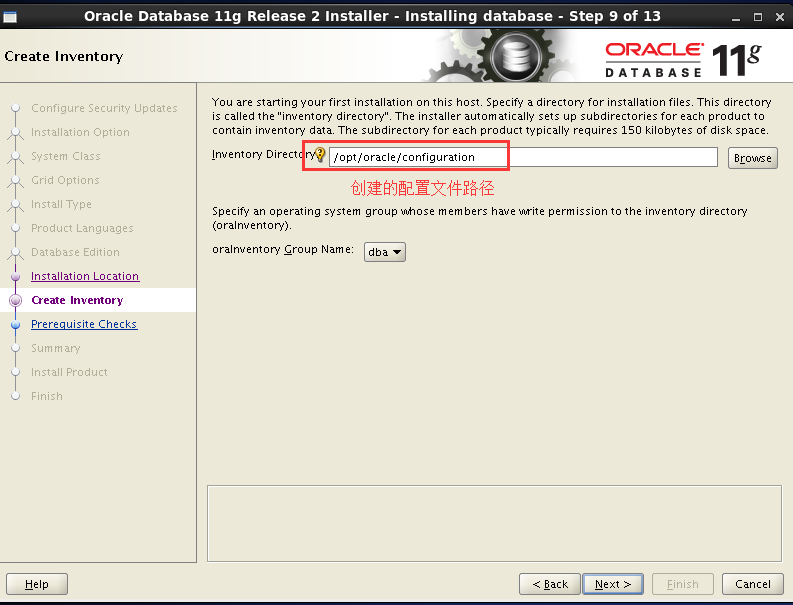
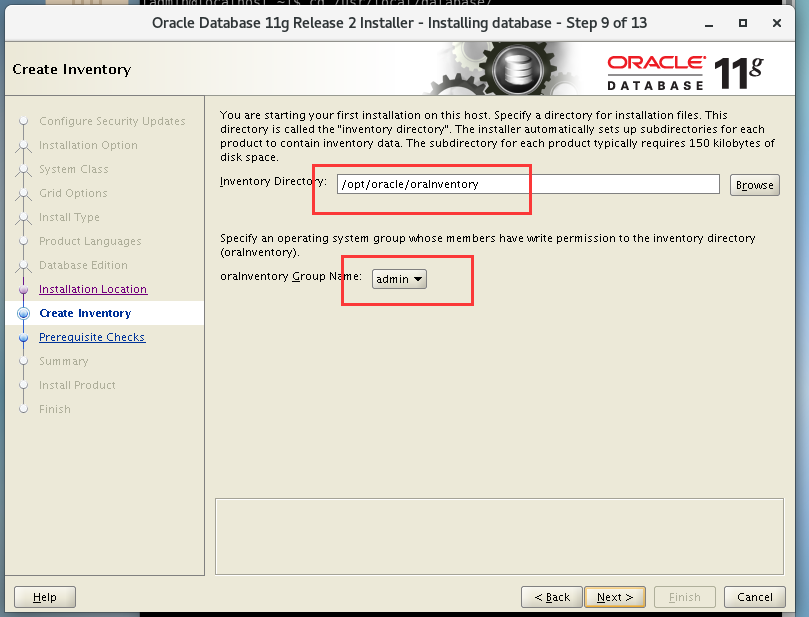
创建项目

Changed region(s): [[0.0, 0.0, 1.0, 1.0]]

diff --git a/docs/服务器/CentOS7/03.07.CentOS7之安装Oracle.md b/docs/服务器/CentOS7/03.07.CentOS7之安装Oracle.md
@@ -25,7 +25,7 @@ title: 03.07.CentOS7之安装Oracle
 su           #切换到root
 
 groupadd oinstall
-groupadd dba
+groupadd admin
 ```
 ### 2、创建oracle数据库安装目录
 ```shell
@@ -74,12 +74,12 @@ vim /etc/sysctl.conf
 ```shell
 net.ipv4.icmp_echo_ignore_broadcasts = 1
 net.ipv4.conf.all.rp_filter = 1
-fs.file-max = 6815744 #设置最大打开文件数
+fs.file-max = 6815744
 fs.aio-max-nr = 1048576
-kernel.shmmax = 2147483648 #最大共享内存的段大小
-kernel.shmmni = 4096 #整个系统共享内存端的最大数
+kernel.shmmax = 2147483648
+kernel.shmmni = 4096
 kernel.sem = 250 32000 100 128
-net.ipv4.ip_local_port_range = 9000 65500 #可使用的IPv4端口范围
+net.ipv4.ip_local_port_range = 9000 65500
 net.core.rmem_default = 262144
 net.core.rmem_max= 4194304
 net.core.wmem_default= 262144
@@ -112,15 +112,15 @@ vim /home/admin/.bash_profile
 最后添加
 ```shell
 # oracle的环境变量
-export ORACLE_BASE=/opt/oracle/install #oracle数据库安装目录
-export ORACLE_HOME=$ORACLE_BASE/product/11.2.0/db_1 #oracle数据库路径
-export ORACLE_SID=orcl #oracle启动数据库实例名
+export ORACLE_BASE=/opt/oracle/install
+export ORACLE_HOME=$ORACLE_BASE/product/11.2.0/db_1
+export ORACLE_SID=orcl
 export ORACLE_UNQNAME=orcl
-export ORACLE_TERM=xterm #xterm窗口模式安装
-export PATH=$ORACLE_HOME/bin:/usr/sbin:$PATH #添加系统环境变量
-export LD_LIBRARY_PATH=$ORACLE_HOME/lib:/lib:/usr/lib #添加系统环境变量
-export LANG=C #防止安装过程出现乱码
-export NLS_LANG=AMERICAN_AMERICA.ZHS16GBK #设置Oracle客户端字符集，必须与Oracle安装时设置的字符集保持一致
+export ORACLE_TERM=xterm
+export PATH=$ORACLE_HOME/bin:/usr/sbin:$PATH
+export LD_LIBRARY_PATH=$ORACLE_HOME/lib:/lib:/usr/lib
+export LANG=C
+export NLS_LANG=AMERICAN_AMERICA.ZHS16GBK
 
 ```
 ### 11、使用户的环境变量配置立即生效
@@ -164,11 +164,16 @@ rm -rf linux.x64_11gR2_database_2of2.zip
 
 chmod 777 database
 
-su admin 
+# 使用xdpyinfo命令查看name of display:的值
+export DISPLAY=localhost:10.0
 
+# 使用以下命令出现：access control disabled, clients can connect from any host证明已经可以使用
+xhost + 
+
+# xshell新开窗口使用admin账号登陆（oracle的e用户），不能使用root登录切换admin
 cd /usr/local/database/
 
-./runInstaller # 这步要是还不出现安装界面，到虚拟机的admin账号登陆进行安装
+./runInstaller
 ```
 
 - Oracle图形界面选项展现关键步骤其他的默认
@@ -189,6 +194,42 @@ cd /usr/local/database/
 ![](./image/03.07-13.png)
 
 ![](./image/03.07-14.png)
+
+> 安装中报错
+
+- 报错：/opt/oracle/product/11.2.0/dbhome_1/ctx/lib/ins_ctx.mk
+
+```
+vim /opt/oracle/install/product/11.2.0/db_1/ctx/lib/ins_ctx.mk
+```
+
+``` diff
+ctxhx: $(CTXHXOBJ)
+-      $(LINK_CTXHX) $(CTXHXOBJ) $(INSO_LINK)
+
+ctxhx: $(CTXHXOBJ)
++      -static $(LINK_CTXHX) $(CTXHXOBJ) $(INSO_LINK) /usr/lib64/stdc.a
+```
+
+- 报错：/opt/oracle/install/product/11.2.0/db_1/sysman/lib/ins_emagent.mk
+
+```
+cp /opt/oracle/install/product/11.2.0/db_1/sysman/lib/ins_emagent.mk /opt/oracle/install/product/11.2.0/db_1/sysman/lib/ins_emagent.mk.bak
+
+vim /opt/oracle/install/product/11.2.0/db_1/sysman/lib/ins_emagent.mk
+```
+
+```diff
+#===========================
+#  emdctl
+#===========================
+
+$(SYSMANBIN)emdctl:
+-	$(MK_EMAGENT_NMECTL)
+
+$(SYSMANBIN)emdctl:
++	$(MK_EMAGENT_NMECTL) -lnnz11
+```
 
 ## 测试 <a name="Linux-04" href="#" >:house:</a>
 ```shell
